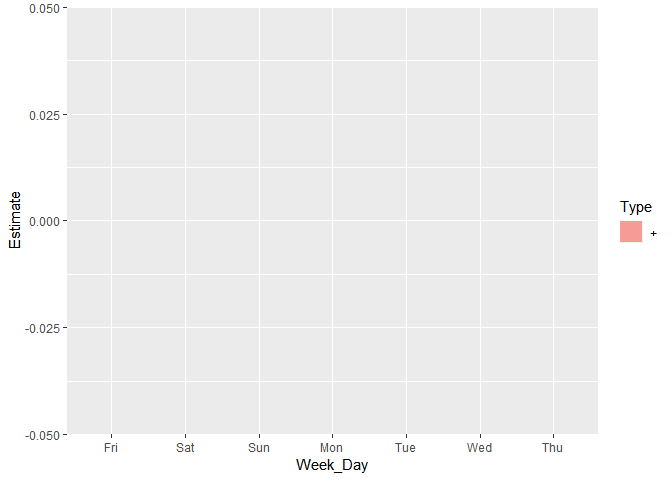
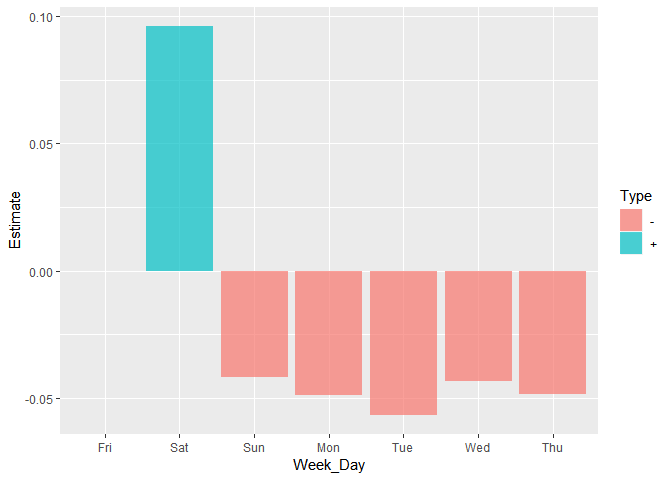
Modify plots for glm_NB_Card

diff --git a/Inferences.md b/Inferences.md
@@ -206,8 +206,8 @@ gam_Dist <- mgcv::gam(Real_Value ~ Month + ADMD_CD + Category + s(avg_temp) + s(
 
 ``` r
 glm_NB_Card <- MASS::glm.nb(USE_CNT ~ MCT_CAT_CD + SEX_CD + AGE + HDONG_CD + avg_temp + avg_pm25 + 
-                              pm10_CTG + pm25_CTG + pm25_Wrn, 
-                            data = Card_Daily %>% select(-STD_DD, -AGE_CD, -USE_AMT, -pm10_Wrn, -avg_pm10))
+                              pm10_CTG + pm25_CTG + pm25_Wrn + Week_Day + Holiday, 
+                            data = Card_Daily)
 ```
 
 2. Inferences
@@ -955,7 +955,7 @@ summary_glm_NB_Card %>%
          Type = ifelse(val_AGE >= 0, "+", "-"), 
          AGE = AGE %>% factor(levels = c("Youth", "Rising", "Middle", "Senior"))) %>%
   ggplot() +
-  geom_bar(aes(x = AGE, y = val_AGE, fill = Type), stat = "identity", alpha = 0.7)
+  geom_bar(aes(x = AGE, y = val_AGE), stat = "identity", alpha = 0.7)
 ```
 
 ![](Inferences_files/figure-markdown_github/unnamed-chunk-26-1.png)
@@ -986,14 +986,12 @@ summary_glm_NB_Card %>%
   right_join(tibble(Week_Day = Week_Day_lev), by = "Week_Day") %>%
   select(Week_Day, Estimate) %>%
   mutate(Estimate = Estimate %>% replace_na(0), 
-         Type = ifelse(Estimate >= 0, "+", "-"), 
          Estimate = ifelse(Week_Day %in% Holiday, Estimate + glm_NB_Card_Hol_coef, Estimate), 
-         Week_Day = Week_Day %>% factor(levels = Week_Day_lev)) %>%
+         Week_Day = Week_Day %>% factor(levels = Week_Day_lev), 
+         Type = ifelse(Estimate >= 0, "+", "-")) %>%
   ggplot() +
   geom_bar(aes(x = Week_Day, y = Estimate, fill = Type), stat = "identity", alpha = 0.7)
 ```
-
-    ## Warning: Removed 2 rows containing missing values (position_stack).
 
 ![](Inferences_files/figure-markdown_github/unnamed-chunk-28-1.png)
 
